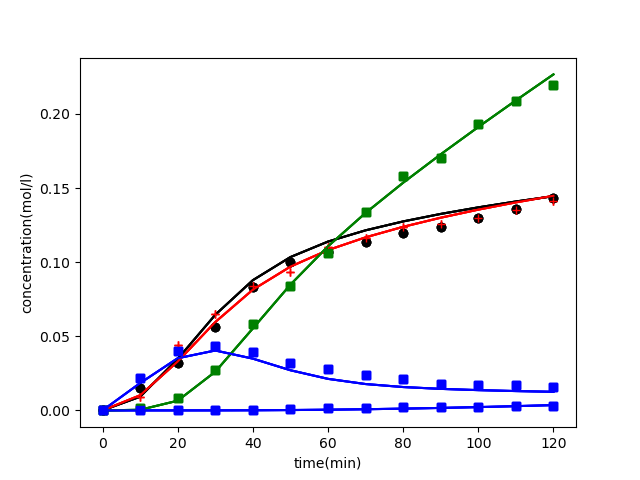
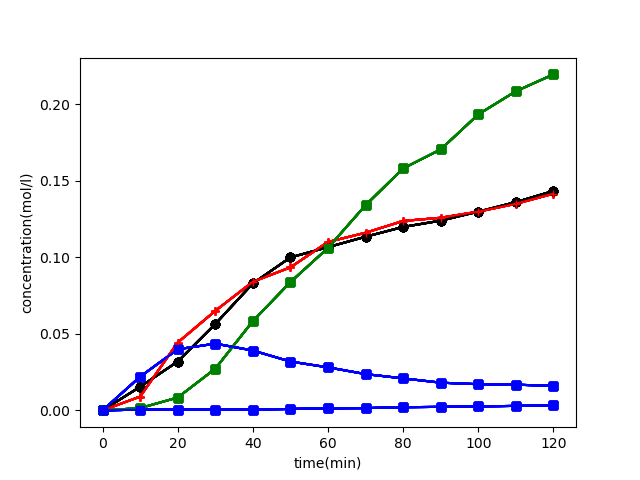
push

diff --git a/chemvision/src/components/show_result.vue b/chemvision/src/components/show_result.vue
@@ -51,21 +51,8 @@ import request from "../util/request";
 export default {
   data() {
     return {
-      list: [
-        {"title":'图1',"url":require("../assets/0.png")},
-        {"title":'图2',"url":require("../assets/1.png")},
-        {"title":'图3',"url":require("../assets/2.png")},
-        {"title":'图4',"url":require("../assets/3.png")},
-        {"title":'图5',"url":require("../assets/4.png")},
-        {"title":'图6',"url":require("../assets/5.png")},
-        {"title":'图7',"url":require("../assets/6.png")},
-      ],
-      tableData: [
-        {'kValue':1,'eValue':2},
-        {'kValue':1,'eValue':2},
-        {'kValue':1,'eValue':2},
-        {'kValue':1,'eValue':2},
-      ]
+      list: [],
+      tableData: []
     }
   },
   methods: {
@@ -79,7 +66,12 @@ export default {
 
     run() {
       request.post("api/return_datas/", this.fd).then(res=>{
-
+           for(var i=0;i<7;i++)
+           {
+                res.data.picture[i]["url"] = require(res.data.picture[i]["url"])
+           }
+           this.list = res.data.picture;
+           this.tableData = res.data.KE;
       })
     }
 

diff --git a/matlabweb/matlabweb/views.py b/matlabweb/matlabweb/views.py
@@ -69,32 +69,46 @@ def return_datas(request):
     cdata1 = matlab.double(cdata1)
     k0_e0=matlab.double(k0_e0)
     T=matlab.double(T)
-    res_t, res_c,res_k,res_e = eng.mainPXKinetics(k0_e0, T, cdata1, nargout=4)
-    # t为7*13*1
-    res_t = np.array(res_t).reshape(7, 13, 1)
-    res_c = np.array(res_c).reshape(7, 13, 7)
-    res_k = np.array(res_k).reshape(1, 7).tolist()
-    res_e = np.array(res_e).reshape(1, 7).tolist()
-    res_k = res_k[0]
-    res_e = res_e[0]
-    res_t = res_t[0]
+    # res_t, res_c,res_k,res_e = eng.mainPXKinetics(k0_e0, T, cdata1, nargout=4)
+    # # t为7*13*1
+    # res_t = np.array(res_t).reshape(7, 13, 1)
+    # res_c = np.array(res_c).reshape(7, 13, 7)
+    # res_k = np.array(res_k).reshape(1, 7).tolist()
+    # res_e = np.array(res_e).reshape(1, 7).tolist()
+    # res_k = res_k[0]
+    # res_e = res_e[0]
+    # res_t = res_t[0]
 
     # '''画图'''
     cwd = os.getcwd()
+    # for i in range(0, 7):
+    #     expdata = cdata[i]
+    #     c = res_c[i]
+    #     time = expdata[:, 0]  # 实验值--时间
+    #     cexp = expdata[:, 1:8]  # 实验值--各化学物的浓度，大小：(13*7)
+    #     fig = plt.figure(i)
+    #     plt.plot(time, cexp[:, 1], 'ko', res_t, c[:, 1], 'k-', time, cexp[:, 2], 'r+', res_t, c[:, 2], 'r-', time, cexp[:, 3],
+    #              'gs', res_t, c[:, 3], 'g-', time, cexp[:, 4], 'bs', res_t, c[:, 4], 'b-', time, cexp[:, 5], 'bs', res_t, c[:, 5],
+    #              'b-')
+    #     plt.xlabel('time(min)')
+    #     plt.ylabel('concentration(mol/l)')
+    #     plt.savefig(str(i)+'.png')
+    # # draw_final()
+
     for i in range(0, 7):
         expdata = cdata[i]
-        c = res_c[i]
+        # c = res_c[i]
         time = expdata[:, 0]  # 实验值--时间
         cexp = expdata[:, 1:8]  # 实验值--各化学物的浓度，大小：(13*7)
         fig = plt.figure(i)
-        plt.plot(time, cexp[:, 1], 'ko', res_t, c[:, 1], 'k-', time, cexp[:, 2], 'r+', res_t, c[:, 2], 'r-', time, cexp[:, 3],
-                 'gs', res_t, c[:, 3], 'g-', time, cexp[:, 4], 'bs', res_t, c[:, 4], 'b-', time, cexp[:, 5], 'bs', res_t, c[:, 5],
+        plt.plot(time, cexp[:, 1], 'ko', time, cexp[:, 1], 'k-', time, cexp[:, 2], 'r+', time, cexp[:, 2], 'r-', time,
+                 cexp[:, 3],
+                 'gs', time, cexp[:, 3], 'g-', time, cexp[:, 4], 'bs', time, cexp[:, 4], 'b-', time, cexp[:, 5], 'bs',
+                 time, cexp[:, 5],
                  'b-')
         plt.xlabel('time(min)')
         plt.ylabel('concentration(mol/l)')
-        plt.savefig(str(i)+'.png')
-    # # draw_final()
-
+        plt.savefig(str(i) + '.png')
 
     for i in range(0, 7):
         data4 = {}
@@ -103,8 +117,8 @@ def return_datas(request):
         data1.append(data4)
     data["picture"]=data1
 
-    # res_k=[1,2,3,4,5,6,7]
-    # res_e = [1, 2, 3, 4, 5, 6, 7]
+    res_k=[1,2,3,4,5,6,7]
+    res_e = [1, 2, 3, 4, 5, 6, 7]
 
     inti=1
     for i,j in zip(res_k,res_e):

diff --git a/matlabweb/test.py b/matlabweb/test.py
@@ -98,20 +98,20 @@ cdata= [[[0, 9.413, 0, 0, 0, 0, 0, 0.000002],
             [120.0000,8.4507,0.1395,0.1543,0.3179,0.0230,0.0032,0.000004]]]
 cdata=np.array(cdata).reshape(7,13,8)
 if __name__ == '__main__':
-    # for i in range(0, 7):
-    #     expdata = cdata[i]
-    #     # c = res_c[i]
-    #     time = expdata[:, 0]  # 实验值--时间
-    #     cexp = expdata[:, 1:8]  # 实验值--各化学物的浓度，大小：(13*7)
-    #     fig = plt.figure(i)
-    #     plt.plot(time, cexp[:, 1], 'ko', time, cexp[:, 1], 'k-', time, cexp[:, 2], 'r+', time, cexp[:, 2], 'r-', time,
-    #              cexp[:, 3],
-    #              'gs', time, cexp[:, 3], 'g-', time, cexp[:, 4], 'bs', time, cexp[:, 4], 'b-', time, cexp[:, 5], 'bs',
-    #              time, cexp[:, 5],
-    #              'b-')
-    #     plt.xlabel('time(min)')
-    #     plt.ylabel('concentration(mol/l)')
-    #     plt.savefig(str(i) + '.png')
+    for i in range(0, 7):
+        expdata = cdata[i]
+        # c = res_c[i]
+        time = expdata[:, 0]  # 实验值--时间
+        cexp = expdata[:, 1:8]  # 实验值--各化学物的浓度，大小：(13*7)
+        fig = plt.figure(i)
+        plt.plot(time, cexp[:, 1], 'ko', time, cexp[:, 1], 'k-', time, cexp[:, 2], 'r+', time, cexp[:, 2], 'r-', time,
+                 cexp[:, 3],
+                 'gs', time, cexp[:, 3], 'g-', time, cexp[:, 4], 'bs', time, cexp[:, 4], 'b-', time, cexp[:, 5], 'bs',
+                 time, cexp[:, 5],
+                 'b-')
+        plt.xlabel('time(min)')
+        plt.ylabel('concentration(mol/l)')
+        plt.savefig(str(i) + '.png')
     # plt.show()
     for i in range(0, 7):
         cwd = os.getcwd()
